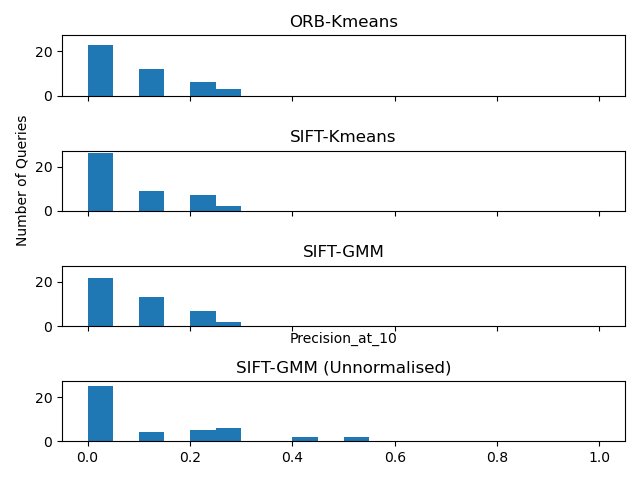
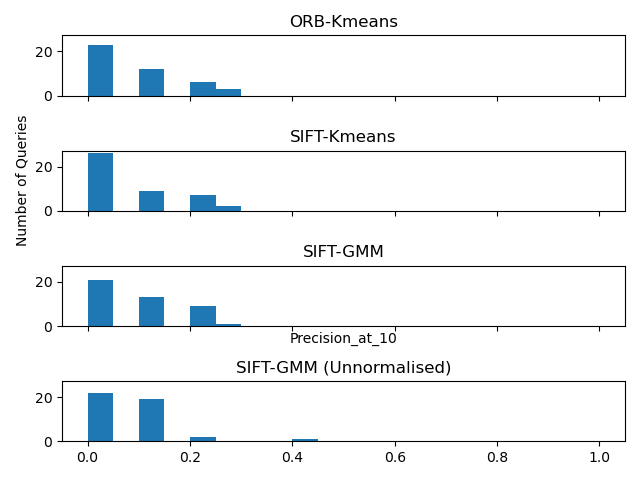
Added runs

diff --git a/Project/Utils.py b/Project/Utils.py
@@ -69,7 +69,7 @@ extract_map_SIFT_c = make_cached(extract_map_SIFT, 'map_sift.npy')
 def extract_query_SIFT(handler, sift):
     return np.vstack( (extract_SIFT(img, sift) for img in handler.query_images_gray) )
 
-extract_query_SIFT_c = make_cached(extract_query_SIFT, 'map_sift.npy')
+extract_query_SIFT_c = make_cached(extract_query_SIFT, 'query_sift.npy')
 
 def cluster_k_means(descriptors, K):
     # clustering
@@ -86,7 +86,7 @@ def manhatten(descriptor, centroid):
 
 def gaussian_mixture_model(descriptors, n_components):
     # clustering
-    gmm = GaussianMixture(n_components=n_components, covariance_type='full')
+    gmm = GaussianMixture(n_components=n_components, covariance_type='full', random_state=20)
     gmm.fit(descriptors)
     return gmm
     
@@ -164,10 +164,13 @@ def bag_of_words_gmm_unnormalised(gmm, img_descriptors):
     log_prior = np.log(gmm.weights_)
     
     for desc in img_descriptors:
-        log_probs = [C.logpdf(desc) + log_prior[i] for i,C in enumerate(gaussians)]
-        unnormalised_posteriors = np.exp(log_probs)
+        # Get the likelihood times the prior for the given point (desc) for each Gaussian.
+        # Weight the log-likelihood values so that the numbers are not too small when we take the exponent.
+        log_probs = [ C.logpdf(desc) + log_prior[i] +10*np.log(10) for i,C in enumerate(gaussians)]
+        # Take the exponent of the log to get the original values. 
+        unnormalised_posteriors_scaled = np.exp(log_probs)
         
-        bow_vector = bow_vector + unnormalised_posteriors
+        bow_vector = bow_vector + unnormalised_posteriors_scaled
 
     return bow_vector
 

diff --git a/Project/evaluate.py b/Project/evaluate.py
@@ -3,10 +3,10 @@ from scipy.stats import binom_test
 from evaluation_metrics import precision_at_10, mean_average_precision, sign_test_values
 from matplotlib import pyplot as plt
 
-df_orb = pd.read_excel('runs/run3_orb.xlsx')
-df_sift = pd.read_excel('runs/run3_sift.xlsx')
-df_gmm = pd.read_excel('runs/run3_gmm.xlsx')
-df_gmm_un = pd.read_excel('runs/run3_gmm_unnormalised.xlsx')
+df_orb = pd.read_excel('runs/run13_orb.xlsx')
+df_sift = pd.read_excel('runs/run13_sift.xlsx')
+df_gmm = pd.read_excel('runs/run13_gmm.xlsx')
+df_gmm_un = pd.read_excel('runs/run13_gmm_unnormalised.xlsx')
 
 threshold = 22
 

diff --git a/Project/main.py b/Project/main.py
@@ -16,7 +16,7 @@ clusters, centroids = cluster_k_means(map_descriptors, 100)
 #query_descriptors = extract_query_ORB_c(handler)
 
 map_bow_euc = bag_of_words_matrix_c_euclidian(centroids, handler.map_images_gray, distance=euclidian)
-map_bow_man = bag_of_words_matrix_c_manhatten(centroids, handler.map_images_gray, distance=manhatten)
+# map_bow_man = bag_of_words_matrix_c_manhatten(centroids, handler.map_images_gray, distance=manhatten)
 
 euclidian_run = {
     'query_index': [],
